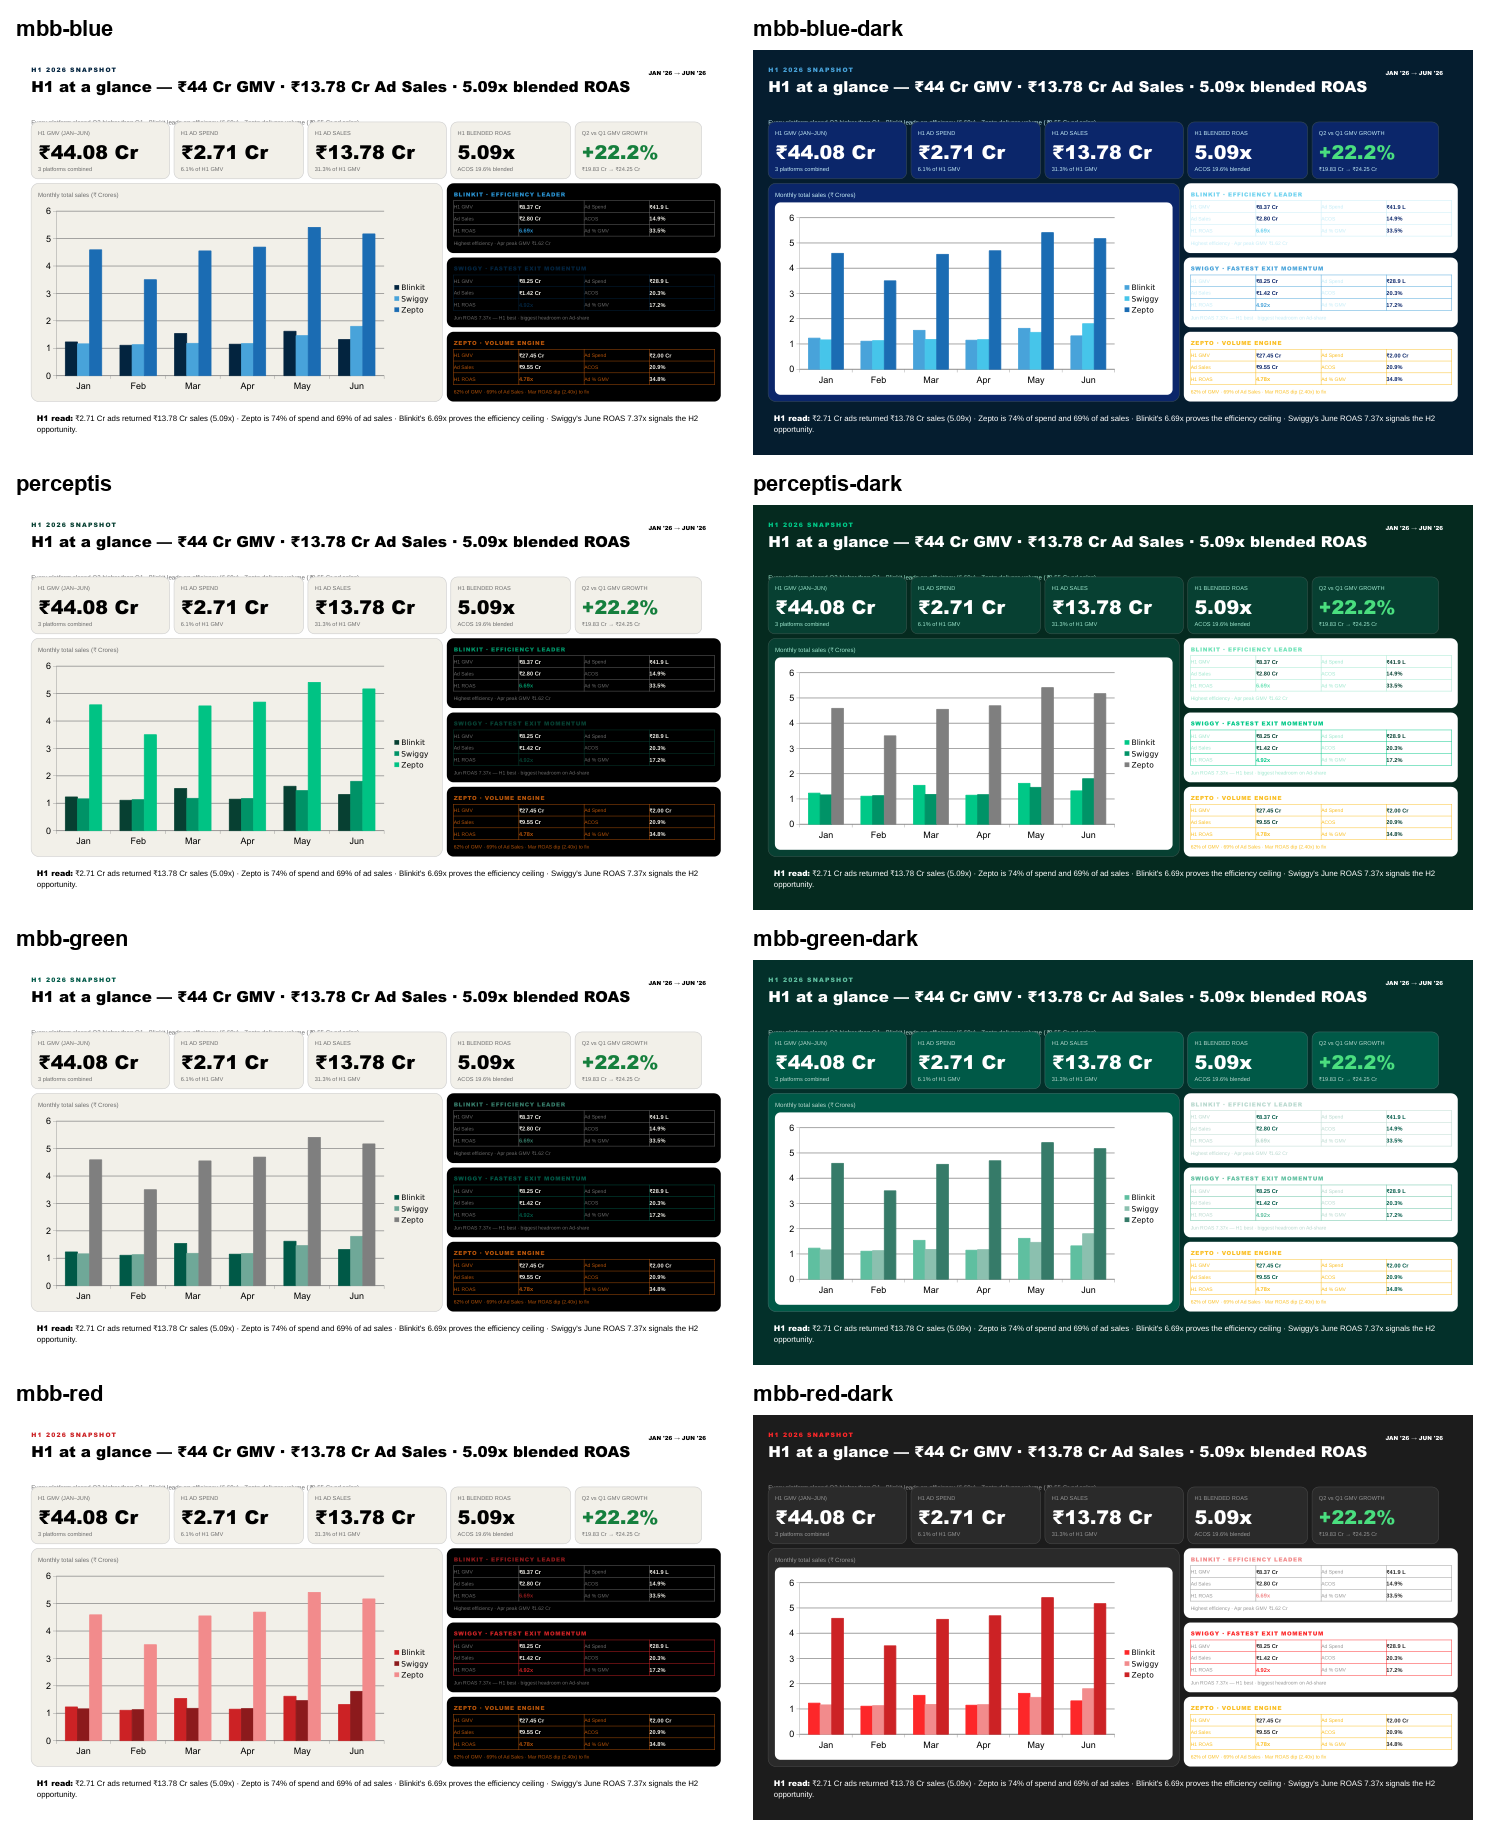
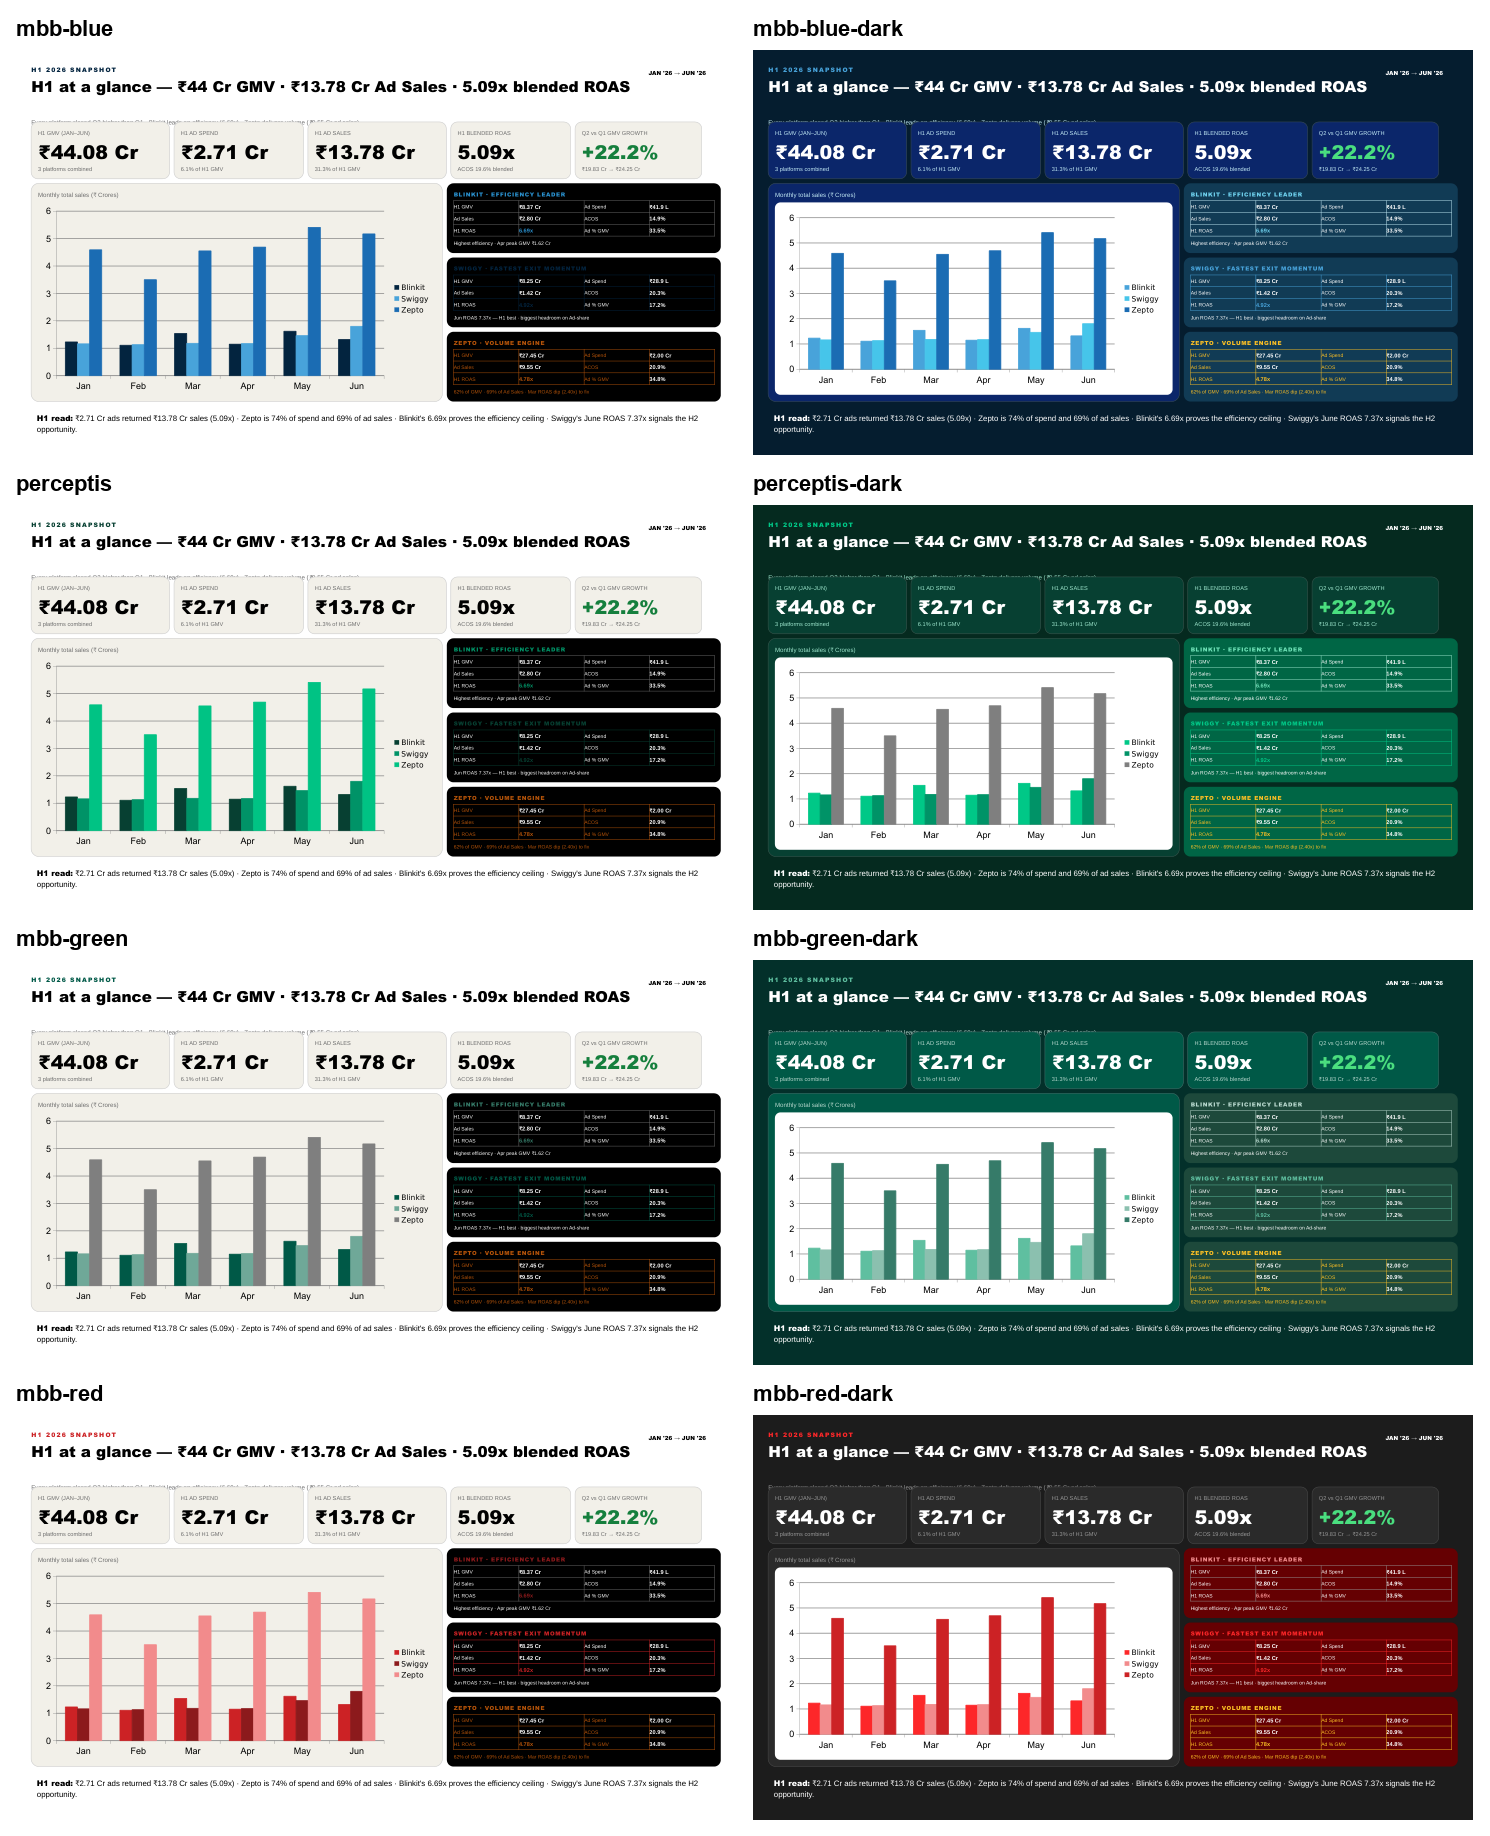
Contrast review of all 36 palettes; theme switch keeps dark panels dark on dark themes
Found by the new review (scripts/palette_contrast.py): the gj-h1 slide's dark panels
(backgroundColor="$textMain" and dark hex that maps to $textMain when the old <Theme> has no
$panelDark) turned white with pale text on every dark theme (LOW_CONTRAST 1.2-2.9:1).
theme_swap now says $panelDark for a $textMain fill from a light source theme (same colour on
light targets) and $onPanelDark for white ink on it. Slide LOW_CONTRAST on the 10 dark themes:
4-5 -> 0-3 groups; the rest are the slide's coloured panel headers (also on the original).

Files:
- presentation-pipeline/src/compiler/theme_swap.py: $textMain fill -> $panelDark; white ink on a
  panel -> $onPanelDark when the old theme has no onPanelDark.
- presentation-pipeline/tests/unit/test_theme_swap.py: test for that case.
- presentation-pipeline/scripts/palette_contrast.py (new): token-pair contrast of every palette
  (text 4.5, accent 3.0, chart 2.0, border 1.4, accent vs good/bad colour) + slide LOW_CONTRAST.
- presentation-pipeline/docs/eval/theme-gallery/{sheet.png, sheet-new.png, README.md}: re-rendered.

Token review: 21/36 palettes pass; 7/8 new Perceptis pass (mbb-red: accent CC2225 ~ negative
DC2626). The 15 failing are older full palettes (accentAlt < 3:1, authored chart colours < 2:1).
Unit tests: test_theme_swap + test_api 85 passed.

diff --git a/presentation-pipeline/scripts/palette_contrast.py b/presentation-pipeline/scripts/palette_contrast.py
@@ -1,0 +1,121 @@
+"""Palette contrast review: every resolved theme's colour pairs against WCAG / the house targets (free, no LLM).
+
+Checks the <Theme> each palette resolves to (authored + derived + chartN tokens):
+
+  text   4.5:1   textMain, textMuted, *Text roles, onAccent, onPanelDark, chartInk on the fills they sit on
+  accent 3.0:1   accent / accentAlt / positive / negative / warning as large text or marks on surface + surfaceAlt
+  chart  2.0:1   chartN on chartSurface (the code's CHART_MIN; WCAG non-text asks 3.0, reported too)
+  border 1.4:1   border on surface + surfaceAlt (the code's BORDER_MIN)
+  meaning        accent too close to negative / positive (Lab dE < 15): a focus number reads as good / bad
+
+Then (--slide) the layout audit's LOW_CONTRAST on one slide re-coloured into every theme.
+
+    python -m scripts.palette_contrast
+    python -m scripts.palette_contrast --only mbb-blue mbb-red --slide tests/fixtures/golden/gj-h1-deck/02-h1-snapshot.xml
+"""
+
+from __future__ import annotations
+
+import argparse
+import re
+import sys
+from pathlib import Path
+
+_ROOT = Path(__file__).resolve().parent.parent
+sys.path.insert(0, str(_ROOT))
+
+from src.agents.style_resolver import resolve_theme, theme_names  # noqa: E402
+from src.compiler.palette_tokens import contrast  # noqa: E402
+from src.compiler.theme_swap import _lab, swap_theme, theme_tokens  # noqa: E402
+
+_THEME_RE = re.compile(r"<Theme\b[^>]*/>")
+_NEW = {"mbb-blue", "mbb-blue-dark", "perceptis", "perceptis-dark",
+        "mbb-green", "mbb-green-dark", "mbb-red", "mbb-red-dark"}
+
+
+def _de(a: str, b: str) -> float:
+    return sum((x - y) ** 2 for x, y in zip(_lab(a), _lab(b))) ** 0.5
+
+
+def pairs(t: dict[str, str]) -> list[tuple[str, str, str, float]]:
+    """(kind, fg token, bg token, minimum) for every pair the house style draws."""
+    out = []
+    bases = ["surface", "surfaceAlt"]
+    for fg in ("textMain", "textMuted"):
+        out += [("text", fg, bg, 4.5) for bg in bases]
+    for role in ("accent", "positive", "negative", "warning"):
+        out += [("text", f"{role}Text", bg, 4.5) for bg in bases + [f"{role}Soft"]]
+    out += [("text", "textMain", f"{r}Soft", 4.5) for r in ("accent", "positive", "negative", "warning")]
+    out += [("text", "onAccent", "accent", 4.5), ("text", "onPanelDark", "panelDark", 4.5)]
+    if "chartSurface" in t:
+        out += [("text", "chartInk", "chartSurface", 4.5)]
+    for fg in ("accent", "accentAlt", "positive", "negative", "warning"):
+        out += [("accent", fg, bg, 3.0) for bg in bases]
+    chart_bg = "chartSurface" if "chartSurface" in t else "surfaceAlt"
+    out += [("chart", k, chart_bg, 2.0) for k in sorted(t) if re.fullmatch(r"chart\d", k)]
+    out += [("border", "border", bg, 1.4) for bg in bases]
+    return out
+
+
+def review(name: str) -> tuple[list[str], list[str]]:
+    """(failures, notes) for one palette."""
+    t = theme_tokens(resolve_theme(name)["element"])
+    fails, notes = [], []
+    for kind, fg, bg, need in pairs(t):
+        if fg not in t or bg not in t:
+            continue
+        r = contrast(t[fg], t[bg])
+        if r < need:
+            fails.append(f"{kind:6} {fg} {t[fg]} on {bg} {t[bg]}: {r:.2f} < {need}")
+        elif kind == "chart" and r < 3.0:
+            notes.append(f"chart  {fg} {t[fg]} on {bg}: {r:.2f} (passes 2.0, under WCAG non-text 3.0)")
+        elif kind == "accent" and fg == "accent" and r < 4.5:
+            notes.append(f"accent {t['accent']} on {bg}: {r:.2f} - large text / marks only; small text must use $accentText")
+    for role in ("negative", "positive"):
+        d = _de(t["accent"], t[role])
+        if d < 15:
+            fails.append(f"meaning accent {t['accent']} vs {role} {t[role]}: dE {d:.1f} < 15 (focus reads as {role})")
+    return fails, notes
+
+
+def slide_audit(slide: Path, names: list[str]) -> dict[str, list[str]]:
+    from src.compiler.layout_audit import audit_layout
+
+    raw = slide.read_text(encoding="utf-8")
+    old = _THEME_RE.search(raw).group(0)
+    out = {}
+    for n in names:
+        th = resolve_theme(n)
+        xml = th["element"] + "\n" + swap_theme(raw, old, th["element"], th["is_dark"]).xml
+        out[n] = [w.get("message", "") for w in audit_layout(xml) if w.get("code") == "LOW_CONTRAST"]
+    return out
+
+
+def main() -> None:
+    ap = argparse.ArgumentParser(description=__doc__.splitlines()[0])
+    ap.add_argument("--only", nargs="*")
+    ap.add_argument("--slide", type=Path,
+                    default=_ROOT / "tests" / "fixtures" / "golden" / "gj-h1-deck" / "02-h1-snapshot.xml")
+    args = ap.parse_args()
+    sys.stdout.reconfigure(encoding="utf-8")     # slide text has ₹ / → (cp1252 console)
+    names = args.only or theme_names()
+
+    total = 0
+    for n in names:
+        fails, notes = review(n)
+        total += len(fails)
+        tag = " [new]" if n in _NEW else ""
+        print(f"\n## {n}{tag}: {'PASS' if not fails else f'{len(fails)} FAIL'}")
+        for f in fails:
+            print("  FAIL", f)
+        for x in notes:
+            print("  note", x)
+    print(f"\nToken pairs: {total} failures over {len(names)} palettes")
+
+    print("\n## LOW_CONTRAST on", args.slide.name)
+    for n, msgs in slide_audit(args.slide, names).items():
+        print(f"  {n:18} {len(msgs)}" + ("" if not msgs else "  " + " | ".join(m[:110] for m in msgs[:4])))
+
+
+if __name__ == "__main__":
+    main()

diff --git a/presentation-pipeline/src/compiler/theme_swap.py b/presentation-pipeline/src/compiler/theme_swap.py
@@ -153,9 +153,11 @@ def _remap_hex(xml: str, old_tokens: dict[str, str], result: SwapResult) -> str:
 
     def token_for(attr: str, hex_: str, fill: str | None) -> str | None:
         on_fill = _ON_FILL.get(fill or "")
-        if _role(attr) == "text" and on_fill in old_tokens:
+        # an old <Theme> without derived tokens: ink on a dark panel was white
+        ref = old_tokens.get(on_fill or "") or ("FFFFFF" if on_fill == "onPanelDark" else None)
+        if _role(attr) == "text" and ref:
             L, a, b = _lab(hex_)
-            if math.hypot(a, b) < _NEUTRAL_CHROMA and abs(L - _lab(old_tokens[on_fill])[0]) < 30:
+            if math.hypot(a, b) < _NEUTRAL_CHROMA and abs(L - _lab(ref)[0]) < 30:
                 return on_fill
         names = by_value.get(hex_)
         if names:
@@ -174,6 +176,19 @@ def _remap_hex(xml: str, old_tokens: dict[str, str], result: SwapResult) -> str:
             return f'{m.group("attr")}="${token}"'
         return _COLOR_ATTR_RE.sub(repl, attrs)
 
+    # On a light source theme a $textMain fill is an inverted panel (an old <Theme> has no
+    # $panelDark, so dark hex fills land on $textMain too). Say $panelDark: it equals textMain
+    # on light targets and stays dark on dark ones, where $textMain is the light ink.
+    old_main = old_tokens.get("textMain")
+    panel_from_main = old_main is not None and _lab(old_main)[0] < _DARK_TINT_L
+
+    def as_panel(attrs: str) -> str:
+        if not panel_from_main:
+            return attrs
+        return _FILL_TOKEN_RE.sub(
+            lambda f: f.group(0).replace("$textMain", "$panelDark") if f.group("tok") == "textMain"
+            else f.group(0), attrs)
+
     out: list[str] = []
     stack: list[str | None] = []        # the fill token each open element sits on
     pos = 0
@@ -187,7 +202,7 @@ def _remap_hex(xml: str, old_tokens: dict[str, str], result: SwapResult) -> str:
             continue
         parent_fill = stack[-1] if stack else None
         # The element's own fill first (it is the context), then its ink against it.
-        attrs = _FILL_HEX_RE.sub(lambda f: remap_attrs(f.group(0), parent_fill), m.group("attrs"))
+        attrs = as_panel(_FILL_HEX_RE.sub(lambda f: remap_attrs(f.group(0), parent_fill), m.group("attrs")))
         fm = _FILL_TOKEN_RE.search(attrs)
         fill = fm.group("tok") if fm else parent_fill
         attrs = remap_attrs(attrs, fill)

diff --git a/presentation-pipeline/tests/unit/test_theme_swap.py b/presentation-pipeline/tests/unit/test_theme_swap.py
@@ -48,6 +48,17 @@ def test_dark_tinted_panel_and_its_ink_flip_together():
     assert '<Text color="$accent">b</Text>' in out
 
 
+def test_text_main_panel_from_an_old_theme_becomes_panel_dark():
+    # gj-h1 golden: <Theme> without derived tokens, dark panels as $textMain and dark hex.
+    old = '<Theme surface="F0F5F3" surfaceAlt="FFFFFF" accent="0D6B4E" textMain="141F1C" textMuted="5F706B" />'
+    xml = ('<Slide><VStack backgroundColor="$textMain"><Text color="FFFFFF">a</Text></VStack>'
+           '<VStack backgroundColor="1E3A5F"><Text color="$textMuted">b</Text></VStack></Slide>')
+    out = swap_theme(xml, old, OLD, True).xml
+    assert out.count('backgroundColor="$panelDark"') == 2
+    assert "$textMain" not in out.split("<Text")[0]
+    assert '<Text color="$onPanelDark">a</Text>' in out
+
+
 def test_ink_on_an_accent_fill_becomes_on_accent():
     xml = f'<Slide><VStack backgroundColor="{OLD_T["accent"]}"><Text color="FFFFFF">a</Text></VStack></Slide>'
     out = swap_theme(xml, OLD, OLD, False).xml

diff --git a/presentation-pipeline/docs/eval/theme-gallery/README.md b/presentation-pipeline/docs/eval/theme-gallery/README.md
@@ -12,8 +12,10 @@ path the review screen's theme switch uses, then compiled (POM) and rendered (Li
   perceptis / mbb-green / mbb-red (+ -dark) assumed from the template dropdown swatches.
 
 Seen on the sheets:
-- The tiny sub-headline drawn over the KPI row and the near-black platform panels are in the original gj-h1
-  render too (the slide, not the themes).
+- The tiny sub-headline drawn over the KPI row is in the original gj-h1 render too (the slide, not the themes).
+- Fixed 2026-10-27 (re-rendered): the slide's dark panels (`$textMain` / dark hex fills) went WHITE with pale text on
+  every dark theme; theme_swap now maps them to `$panelDark` and white ink on them to `$onPanelDark`.
+- Contrast review: `python -m scripts.palette_contrast` (token pairs of every palette + LOW_CONTRAST on this slide).
 - Chart colours too pale for the white chart card (2:1) or near-duplicates are swapped for the default green /
   amber by `palette_tokens.guard_chart_colors` (6FD2EF, C5EDF8, 9FE8CF, 6FE3B8); on mbb-green and perceptis-dark
   the third series (Zepto) falls to grey 808080.
